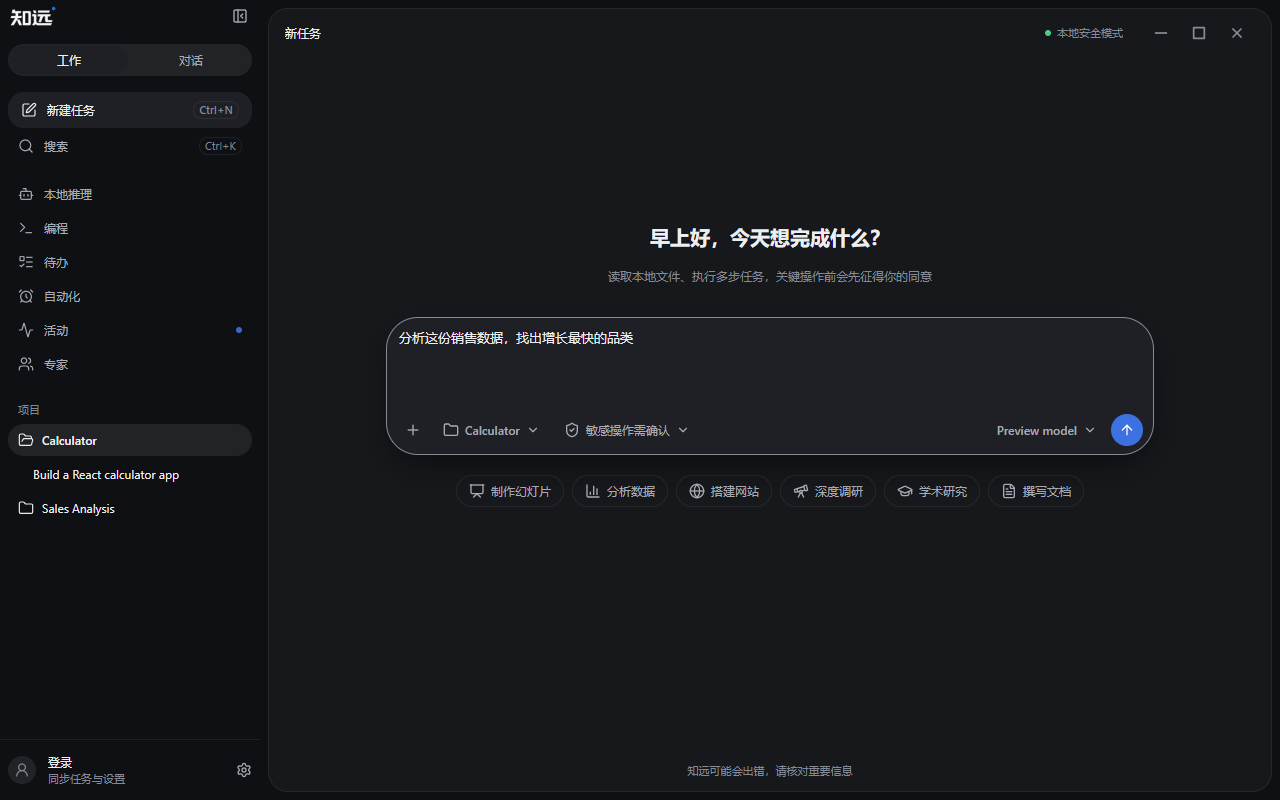
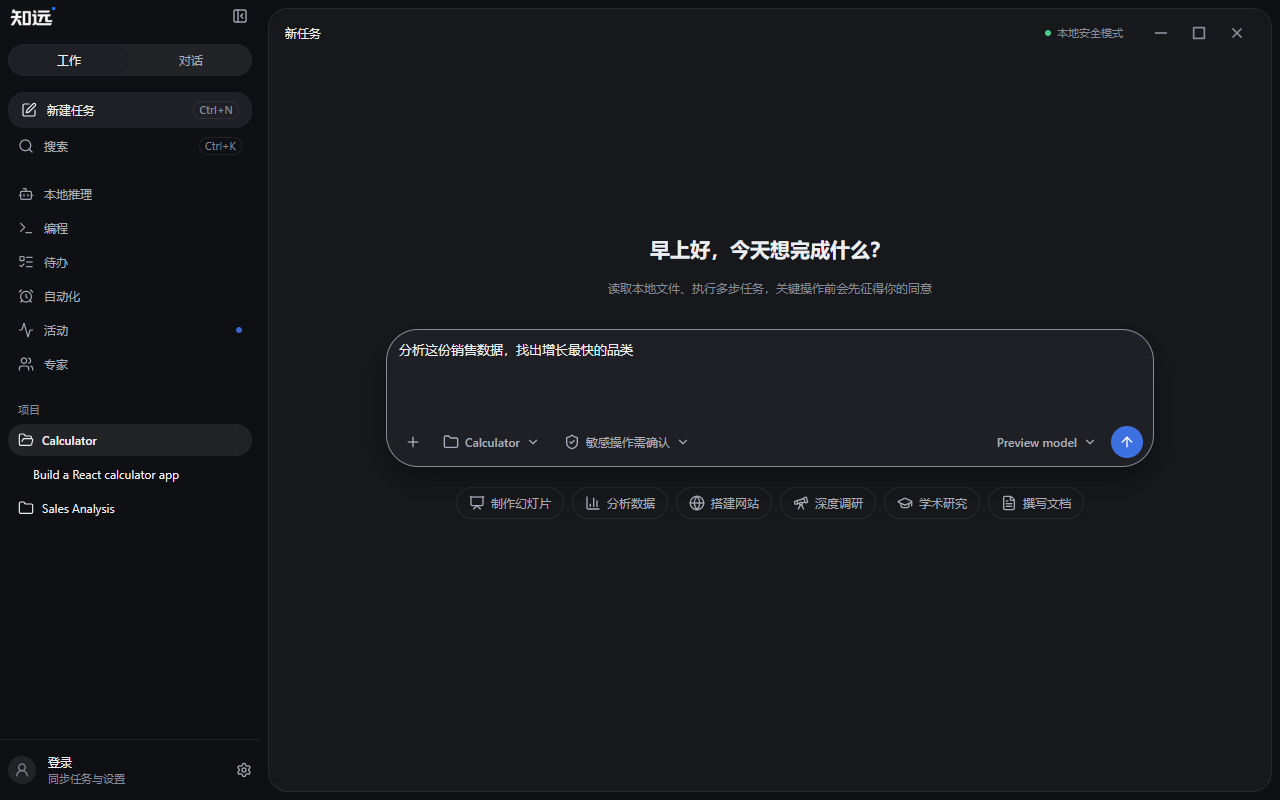
fix(ui): remove the home disclaimer footnote
Drop the model-fallback warning from the home surface together with its i18n keys and unused theme hook. Refresh the tracked v4 light/dark previews so the reference matches the rendered UI.

diff --git a/src/renderer/theme/css/themes.css b/src/renderer/theme/css/themes.css
@@ -5383,12 +5383,6 @@
   font-weight: var(--zy-component-font-weight-semibold);
   color: var(--zy-text-primary);
 }
-:where(:root, [data-theme]) :where(.theme-home-footnote) {
-  font-size: var(--zy-component-text-xs);
-  color: var(--zy-text-muted);
-  text-align: center;
-  line-height: var(--zy-component-text-xs--line-height);
-}
 @media (min-width: 48rem) {
 :where(:root, [data-theme]) :where(.peer[data-variant="inset"] ~ .theme-sidebar-inset) {
   border-radius: var(--zy-style-radius-xl);
@@ -8333,8 +8327,7 @@ to {
 :where(:root, [data-theme]) :where(.theme-shell-account-hint),
 :where(:root, [data-theme]) :where(.theme-shell-status-dot),
 :where(:root, [data-theme]) :where(.theme-shell-status-dot-warning),
-:where(:root, [data-theme]) :where(.theme-home-greeting),
-:where(:root, [data-theme]) :where(.theme-home-footnote) { transition-duration: 0s; animation: none; }
+:where(:root, [data-theme]) :where(.theme-home-greeting) { transition-duration: 0s; animation: none; }
 }
 }
 :where(:root, [data-theme]) [data-sonner-toast].cn-toast {

diff --git a/src/renderer/services/i18n/zh/cowork.ts b/src/renderer/services/i18n/zh/cowork.ts
@@ -43,7 +43,6 @@ export const zhCowork: Record<string, string> = {
   coworkSessionActions: '更多操作',
   coworkPlaceholder: '描述一个任务，或者问任何问题',
   coworkHomeSubtitle: '读取本地文件、执行多步任务，关键操作前会先征得你的同意',
-  coworkHomeFootnote: '知远可能会出错，请核对重要信息',
   homeGreetingMorning: '早上好，今天想完成什么？',
   homeGreetingAfternoon: '下午好，今天想完成什么？',
   homeGreetingEvening: '晚上好，今天想完成什么？',

diff --git a/src/renderer/services/i18n/en/cowork.ts b/src/renderer/services/i18n/en/cowork.ts
@@ -44,7 +44,6 @@ export const enCowork: Record<string, string> = {
   coworkPlaceholder: 'Describe a task or ask any question',
   coworkHomeSubtitle:
     'Reads local files and runs multi-step tasks, asking before sensitive actions',
-  coworkHomeFootnote: 'ZhiYuan can make mistakes. Check important info.',
   homeGreetingMorning: 'Good morning. What would you like to get done?',
   homeGreetingAfternoon: 'Good afternoon. What would you like to get done?',
   homeGreetingEvening: 'Good evening. What would you like to get done?',

diff --git a/src/renderer/theme/themes/quiet-studio-v4.ts b/src/renderer/theme/themes/quiet-studio-v4.ts
@@ -366,13 +366,6 @@ export function quietStudioAppearances(): Partial<ComponentAppearances> {
         color: 'var(--zy-text-primary)',
       },
     }),
-    'home-footnote': recipe({
-      base: {
-        'font-size': 'var(--zy-component-text-xs)',
-        color: 'var(--zy-text-muted)',
-        'text-align': 'center',
-      },
-    }),
 
     'shell-sidebar': recipe({
       base: {

diff --git a/src/renderer/theme/components/quiet-studio-contract.ts b/src/renderer/theme/components/quiet-studio-contract.ts
@@ -14,5 +14,4 @@ export const QUIET_STUDIO_SELECTORS = {
   'shell-status-dot': '.theme-shell-status-dot',
   'shell-status-dot-warning': '.theme-shell-status-dot-warning',
   'home-greeting': '.theme-home-greeting',
-  'home-footnote': '.theme-home-footnote',
 } as const;

diff --git a/src/renderer/theme/components/classic.ts b/src/renderer/theme/components/classic.ts
@@ -196,6 +196,5 @@ export function classicComponentAppearances(): ComponentAppearances {
     'shell-status-dot': recipe({}),
     'shell-status-dot-warning': recipe({}),
     'home-greeting': recipe({}),
-    'home-footnote': recipe({}),
   };
 }

diff --git a/src/renderer/components/cowork/CoworkView.tsx b/src/renderer/components/cowork/CoworkView.tsx
@@ -831,7 +831,6 @@ const CoworkView: React.FC<CoworkViewProps> = ({
           </div>
         </div>
       </div>
-      <div className="theme-home-footnote shrink-0 pb-3">{i18nService.t('coworkHomeFootnote')}</div>
     </div>
   );
 };
